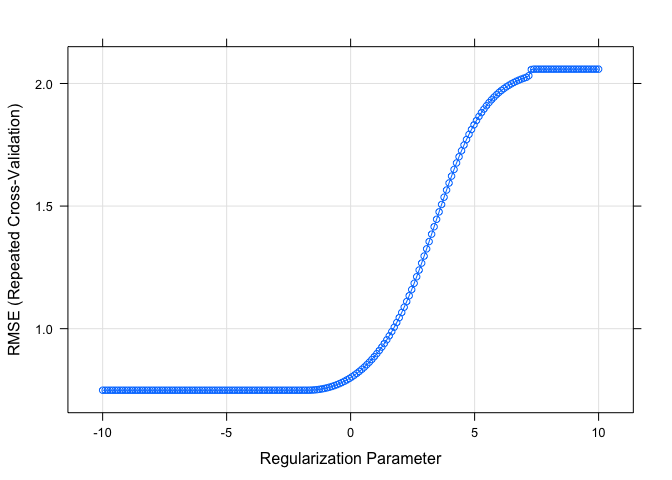
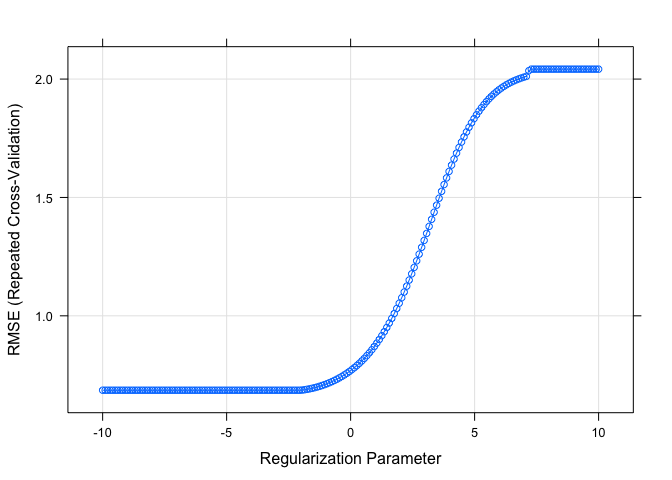
PCR

diff --git a/P8106_Ec3342_Hw1.md b/P8106_Ec3342_Hw1.md
@@ -24,9 +24,10 @@ the test data are in “solubil-itytest.csv”. Among the 228 predictors,
 particular chemical substructure, 16 are count features, such as the
 numberof bonds or the number of bromine atoms, and 4 are continuous
 features, such as molecularweight or surface area. The response is in
-the column “Solubility”.
+the column
+“Solubility”.
 
-# Linear Model
+# 1\) Fit a linear model using least squares on the training data and calculate the mean square error using the test data.
 
 ``` r
 fit_lm <- lm(Solubility~., data = train_data)
@@ -36,22 +37,24 @@ mse(test_data$Solubility, pred_lm)
 
     ## [1] 0.5558898
 
-# Ridge Regression
+The mean square error is
+0.5558898.
+
+# 2\) Fit a ridge regression model on the training data, withλchosen by cross-validation.Report the test error.
 
 ``` r
-x <- model.matrix(Solubility~.,test_data)[,-1]
-# vector of response
-y <- test_data$Solubility
-ridge.mod <- glmnet(x,y, standardize = TRUE,
-                    alpha = 0, 
-                    lambda = exp(seq(-1, 10, length = 100)))
+x_train = model.matrix(Solubility ~ ., train_data)[,-1]
+y_train = train_data$Solubility
+x_test = model.matrix(Solubility ~ ., test_data)[,-1]
+y_test = test_data$Solubility
+
+# Validation control
+ctrl1 <- trainControl(method = "repeatedcv", number = 10, repeats = 5)
 ```
 
 ``` r
-ctrl1 <- trainControl(method = "repeatedcv", number = 10, repeats = 5)
-
 set.seed(2)
-ridge.fit <- train(x, y,
+ridge.fit <- train(x_train, y_train,
                    method = "glmnet",
                    tuneGrid = expand.grid(alpha = 0, 
                                           lambda = exp(seq(-10, 10, length = 200))),
@@ -77,11 +80,19 @@ best_lambda
 
     ## [1] 0.1274155
 
-\#Lasso
+``` r
+ridge.pred = predict(ridge.fit$finalModel, s = best_lambda, newx = x_test) 
+#Using best lambda to predict test data
+mean((ridge.pred - y_test)^2)
+```
+
+    ## [1] 0.5134603
+
+# Fit a lasso model on the training data, withλchosen by cross-validation. Report thetest error, along with the number of non-zero coefficient estimates.
 
 ``` r
 set.seed(2)
-lasso.fit <- train(x, y,
+lasso.fit <- train(x_train, y_train,
                    method = "glmnet",
                    tuneGrid = expand.grid(alpha = 1, 
                                           lambda = exp(seq(-10, 10, length = 200))),
@@ -91,18 +102,42 @@ lasso.fit <- train(x, y,
 plot(lasso.fit, xTrans = function(x) log(x))
 ```
 
-![](P8106_Ec3342_Hw1_files/figure-gfm/unnamed-chunk-7-1.png)<!-- -->
-
-``` r
-lasso.fit$bestTune
-```
-
-    ##    alpha     lambda
-    ## 60     1 0.01707138
+![](P8106_Ec3342_Hw1_files/figure-gfm/unnamed-chunk-8-1.png)<!-- -->
 
 ``` r
 best_lambda_lasso <- lasso.fit$bestTune$lambda
 best_lambda_lasso
 ```
 
-    ## [1] 0.01707138
+    ## [1] 0.0046222
+
+``` r
+lasso.pred = predict(lasso.fit$finalModel, s = best_lambda_lasso, newx = x_test) 
+#Using best lambda to predict test data
+mean((lasso.pred - y_test)^2)
+```
+
+    ## [1] 0.4987333
+
+# PCR
+
+``` r
+set.seed(2)
+pcr.fit <- train(x_train, y_train,
+                  method = "pcr",
+                  tuneLength = 200,
+                  trControl = ctrl1,
+                  scale = TRUE)
+
+predy.pcr <- predict(pcr.fit$finalModel, newdata = x_test, 
+                       ncomp = pcr.fit$bestTune$ncomp)
+mse(y_test, predy.pcr)
+```
+
+    ## [1] 0.549917
+
+``` r
+ggplot(pcr.fit, highlight = TRUE) + theme_bw()
+```
+
+![](P8106_Ec3342_Hw1_files/figure-gfm/unnamed-chunk-11-1.png)<!-- -->
